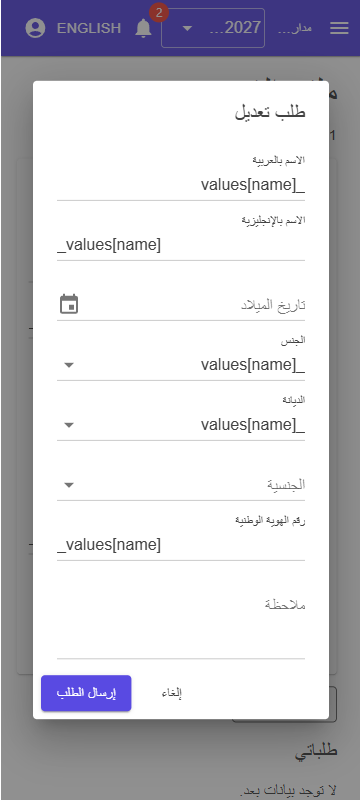
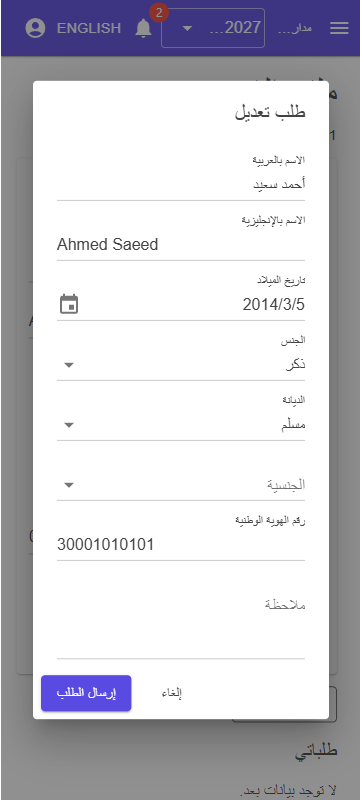
fix(client): bind the field editor value as an expression; assert rendered input values (#248 review)

diff --git a/tests/Lms.Client.Tests/Pages/Me/MyStudentProfilePageTests.cs b/tests/Lms.Client.Tests/Pages/Me/MyStudentProfilePageTests.cs
@@ -43,6 +43,37 @@ public sealed class MyStudentProfilePageTests : StudentsTestContext
     }
 
     [Fact]
+    public async Task Editable_inputs_show_the_students_current_values()
+    {
+        Culture.Current = new CultureInfo("en");
+        var cut = await RenderPageAsync(Permissions.Students.SelfEdit);
+        var current = (await _api.GetAsync()).Student;
+
+        Assert.Equal("Ahmoudy", cut.WaitForElement("input[data-testid=field-NicknameEn]").GetAttribute("value"));
+        Assert.Equal(current.NicknameAr, cut.Find("input[data-testid=field-NicknameAr]").GetAttribute("value"));
+        Assert.Equal(current.Mobile, cut.Find("input[data-testid=field-Mobile]").GetAttribute("value"));
+        Assert.DoesNotContain("_values", cut.Markup); // a literal parameter string must never reach the screen
+    }
+
+    [Fact]
+    public async Task Request_dialog_inputs_show_the_current_values_of_every_requestable_field()
+    {
+        Culture.Current = new CultureInfo("en");
+        var cut = await RenderPageAsync(Permissions.Students.SelfEdit);
+        var student = (await _api.GetAsync()).Student;
+        _ = cut.WaitForElement("[data-testid=request-change]").ClickAsync(new());
+        await Dialogs.WaitForElementAsync("input[data-testid=field-NameEn]");
+
+        Assert.Equal(student.Summary.NameAr, Dialogs.Find("input[data-testid=field-NameAr]").GetAttribute("value"));
+        Assert.Equal(student.Summary.NameEn, Dialogs.Find("input[data-testid=field-NameEn]").GetAttribute("value"));
+        Assert.Equal(student.NationalId, Dialogs.Find("input[data-testid=field-NationalId]").GetAttribute("value"));
+        Assert.Equal(student.Summary.DateOfBirth.ToString("yyyy-MM-dd", CultureInfo.InvariantCulture),
+            Lms.Client.Components.People.StudentFieldText.Current(student, StudentFields.DateOfBirth));
+        Assert.Contains("Male", Dialogs.Find("[data-testid=field-Gender]").TextContent + Dialogs.Find("[data-testid=field-Gender]").InnerHtml);
+        Assert.DoesNotContain("_values", Dialogs.Markup);
+    }
+
+    [Fact]
     public async Task Save_sends_only_changed_editable_fields()
     {
         var cut = await RenderPageAsync(Permissions.Students.SelfEdit);
